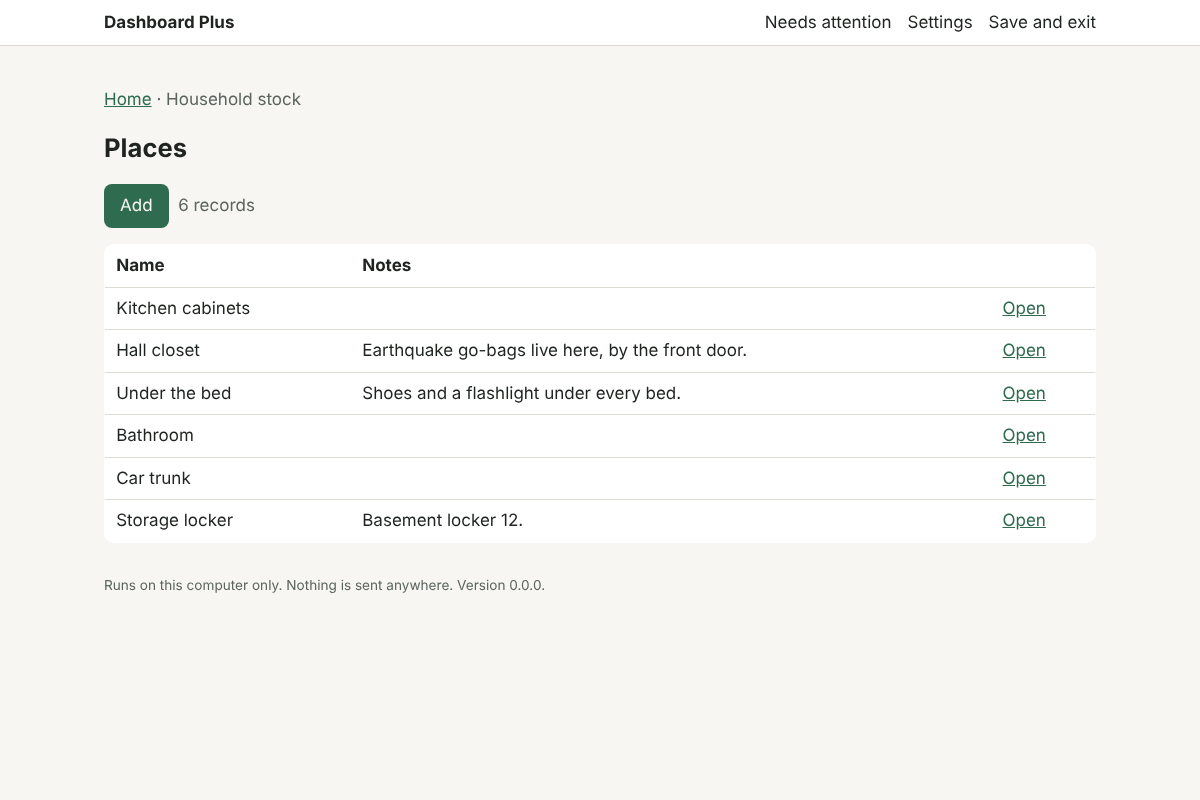
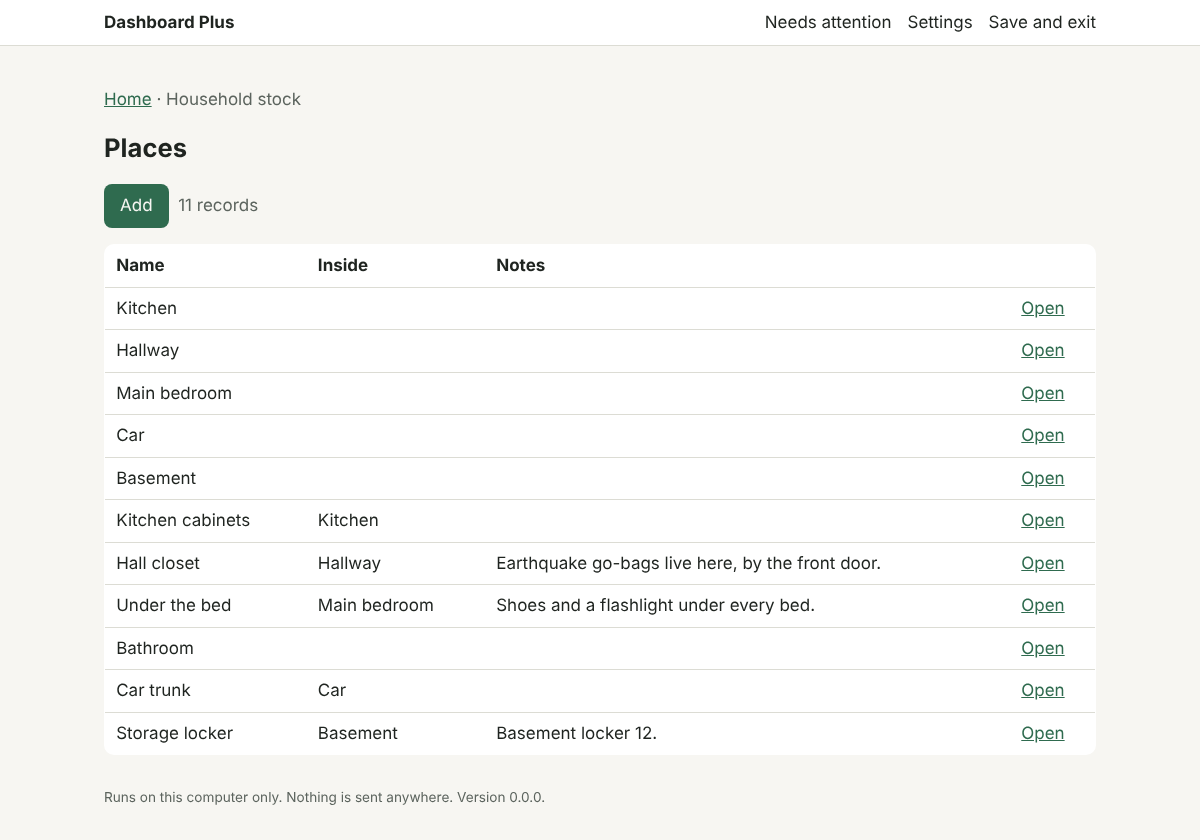
Nested places: Kitchen › Pantry › Shelf 3
Corey's stocktake request, built from Lane B's Home layout design:
- A place can be "Inside" another place; every list, drop-down, record
  page and printed sheet shows the full path, sorted by path, and the
  find box matches any part of it.
- Moving a cupboard moves its shelves; saving refuses a place inside
  itself or deeper than eight levels; a room with places inside can't be
  deleted.
- Core: `parent` in tables.toml (DESIGN 5.6, decision 0049); Household
  stock migration 0004. Example households gain rooms, and the Smiths'
  kidney beans sit on Shelf 3. Screenshots remade.

Claude-Session: https://claude.ai/code/session_01NY4YczT1cyZFgfHagCWCs7

diff --git a/tests/test_module_stock.py b/tests/test_module_stock.py
@@ -146,6 +146,46 @@ class StockModuleTests(TempDirTestCase):
         client.get("/?key=k", base_url=BASE)
         return client
 
+    def test_places_nest_and_show_their_full_path(self):
+        kitchen = self.records.create("stock__places", {"name": "Kitchen"})
+        pantry = self.records.create("stock__places", {"name": "Pantry", "inside": kitchen})
+        shelf = self.records.create("stock__places", {"name": "Shelf 3", "inside": pantry})
+        self.item(name="Kidney beans", quantity=5, place=shelf)
+        client = self._client()
+        items = client.get("/t/stock__items", base_url=BASE).get_data(as_text=True)
+        self.assertIn("Kitchen › Pantry › Shelf 3", items)
+        form = client.get("/t/stock__items/new", base_url=BASE).get_data(as_text=True)
+        self.assertLess(form.index(">Kitchen<"), form.index(">Kitchen › Pantry<"))
+        self.assertIn(">Kitchen › Pantry › Shelf 3<", form)
+        page = client.get(f"/t/stock__places/{shelf}", base_url=BASE).get_data(as_text=True)
+        self.assertIn("<h1>Kitchen › Pantry › Shelf 3", page)
+        sheet = client.get("/sheet/stock/supplies", base_url=BASE).get_data(as_text=True)
+        self.assertIn("Kitchen › Pantry › Shelf 3", sheet)
+
+    def test_a_place_cannot_go_inside_itself(self):
+        kitchen = self.records.create("stock__places", {"name": "Kitchen"})
+        pantry = self.records.create("stock__places", {"name": "Pantry", "inside": kitchen})
+        with self.assertRaises(records.ValidationError) as caught:
+            self.records.update("stock__places", kitchen, {"inside": pantry})
+        self.assertIn("inside", caught.exception.problems)
+        with self.assertRaises(records.ValidationError):
+            self.records.update("stock__places", kitchen, {"inside": kitchen})
+
+    def test_moving_a_cupboard_moves_everything_in_it(self):
+        kitchen = self.records.create("stock__places", {"name": "Kitchen"})
+        garage = self.records.create("stock__places", {"name": "Garage"})
+        cupboard = self.records.create("stock__places", {"name": "Tall cupboard", "inside": kitchen})
+        self.records.create("stock__places", {"name": "Top shelf", "inside": cupboard})
+        self.records.update("stock__places", cupboard, {"inside": garage})
+        form = self._client().get("/t/stock__items/new", base_url=BASE).get_data(as_text=True)
+        self.assertIn(">Garage › Tall cupboard › Top shelf<", form)
+
+    def test_a_room_with_places_inside_cannot_be_deleted(self):
+        kitchen = self.records.create("stock__places", {"name": "Kitchen"})
+        self.records.create("stock__places", {"name": "Pantry", "inside": kitchen})
+        with self.assertRaises(records.ValidationError):
+            self.records.delete("stock__places", kitchen)
+
     def test_migration_matches_its_description(self):
         from dashboard.core.schema import next_migration_sql
         self.assertIsNone(next_migration_sql(modules.load_module(ROOT / "modules" / "stock")))

diff --git a/src/dashboard/core/records.py b/src/dashboard/core/records.py
@@ -297,6 +297,31 @@ class Records:
                           list(assignments.values()) + [target_id])
         self._audit(actor, "update", target, target_id, {rule["quantity"]: before}, {rule["quantity"]: after})
 
+    MAX_DEPTH = 8  # how deep nested records (Kitchen › Pantry › Shelf 3 › Box) may go
+
+    def ancestors(self, info: TableInfo, record_id: int | None) -> list[dict]:
+        """The chain of records `record_id` sits inside, outermost first (for a table with `parent`)."""
+        chain, seen = [], set()
+        while record_id is not None and record_id not in seen and len(chain) <= self.MAX_DEPTH + 1:
+            seen.add(record_id)
+            row = self.conn.execute(f"SELECT * FROM {info.name} WHERE id = ?", (record_id,)).fetchone()
+            if row is None:
+                break
+            chain.append(dict(row))
+            record_id = row[info.table.parent]
+        return list(reversed(chain))
+
+    def _check_nesting(self, info: TableInfo, record_id: int | None, cleaned: dict) -> None:
+        """Refuse putting a record inside itself, or nesting deeper than MAX_DEPTH."""
+        parent = info.table.parent
+        if not parent or cleaned.get(parent) in (None, ""):
+            return
+        chain = self.ancestors(info, int(cleaned[parent]))
+        if record_id is not None and any(row["id"] == record_id for row in chain):
+            raise ValidationError({parent: "can't be this place itself, or a place inside it."})
+        if len(chain) >= self.MAX_DEPTH:
+            raise ValidationError({parent: f"is too deep; places can go {self.MAX_DEPTH} levels deep."})
+
     def create(self, name: str, values: dict, actor: str = "person", review_status: str = "confirmed",
                batch_id: int | None = None) -> int:
         """Save a new record and return its id."""
@@ -304,6 +329,7 @@ class Records:
         info = self.info(name)
         with db.transaction(self.conn):
             cleaned = self.clean(info, values, creating=True)
+            self._check_nesting(info, None, cleaned)
             stored = {k: v for k, v in cleaned.items() if info.table.columns[k].type != "links"}
             now = self.clock()
             fields = ["created_at", "updated_at", "source", "review_status", "batch_id"] + list(stored)
@@ -323,6 +349,7 @@ class Records:
         with db.transaction(self.conn):
             current = self._row(info, record_id)
             cleaned = self.clean(info, values, creating=False)
+            self._check_nesting(info, record_id, cleaned)
             changed = {k: v for k, v in cleaned.items() if current.get(k) != v}
             if not changed:
                 return {}

diff --git a/src/dashboard/web/display.py b/src/dashboard/web/display.py
@@ -69,6 +69,20 @@ def name_column(info: TableInfo) -> Column | None:
     return (required or texts or [None])[0]
 
 
+PATH_SEPARATOR = " › "
+
+
+def path_name(info: TableInfo, rows_by_id: dict, row: dict) -> str:
+    """"Kitchen › Pantry › Shelf 3" for a nested record, from rows already loaded by id."""
+    names, seen = [], set()
+    while row is not None and row["id"] not in seen and len(names) < 12:
+        seen.add(row["id"])
+        names.append(display_name(info, row))
+        parent = row.get(info.table.parent)
+        row = rows_by_id.get(int(parent)) if parent not in (None, "") else None
+    return PATH_SEPARATOR.join(reversed(names))
+
+
 def display_name(info: TableInfo, row: dict) -> str:
     """A short human name for a record, used wherever another record links to it."""
     column = name_column(info)
@@ -101,7 +115,11 @@ class Formatter:
         if key not in self._names:
             try:
                 row = self.records.get(target.name, int(record_id), include_deleted=True)
-                name = display_name(target, row)
+                if target.table.parent:
+                    chain = self.records.ancestors(target, int(record_id))
+                    name = path_name(target, {r["id"]: r for r in chain}, chain[-1]) if chain else display_name(target, row)
+                else:
+                    name = display_name(target, row)
                 self._names[key] = name + (" (deleted)" if row.get("deleted_at") else "")
             except Exception:  # noqa: BLE001 - a missing link should never break a page
                 self._names[key] = "(missing)"
@@ -180,7 +198,12 @@ def build_fields(records: Records, info: TableInfo, values: dict, errors: dict, 
             target = formatter.target(info, column)
             name_col = name_column(target)
             rows = records.page(target.name, limit=OPTION_LIMIT, order_by=name_col.name if name_col else "id")
-            options = [(str(r["id"]), display_name(target, r)) for r in rows]
+            if target.table.parent:
+                by_id = {r["id"]: dict(r) for r in rows}
+                options = sorted(((str(r["id"]), path_name(target, by_id, dict(r))) for r in rows),
+                                 key=lambda option: option[1].lower())
+            else:
+                options = [(str(r["id"]), display_name(target, r)) for r in rows]
         raw = values.get(column.name)
         value = raw if from_form else input_value(column, raw)
         if column.type == "link" and value not in (None, ""):

diff --git a/src/dashboard/core/modules.py b/src/dashboard/core/modules.py
@@ -27,7 +27,7 @@ SYSTEM_COLUMNS = ("id", "created_at", "updated_at", "review_status", "source", "
 
 MODULE_KEYS = ("name", "title", "version", "description", "core_api", "kind", "requires", "outbound_hosts")
 MODULE_REQUIRED = ("name", "title", "version", "description", "core_api", "kind")
-TABLE_KEYS = ("title", "description", "columns", "watch", "adjusts")
+TABLE_KEYS = ("title", "description", "columns", "watch", "adjusts", "parent")
 ADJUST_KEYS = ("link", "quantity", "amount", "direction", "adds")
 WATCH_KEYS = ("running_low", "expiring", "supply", "gaps")
 GAP_KEYS = ("missing", "none", "where", "message")
@@ -75,6 +75,7 @@ class Table:
     columns: dict[str, Column]
     watch: dict = field(default_factory=dict)  # checked `watch` section (DESIGN.md 5.1)
     adjusts: dict = field(default_factory=dict)  # checked `adjusts` section (DESIGN.md 5.3)
+    parent: str | None = None  # a link to this same table that nests records (DESIGN.md 5.6)
 
 
 @dataclass
@@ -401,6 +402,15 @@ def _check_tables(module: str, data: dict, requires: list[str], problems: list[s
         watch = _check_watch(file, tname, raw.get("watch", {}), columns, problems)
         tables[tname] = Table(tname, str(raw.get("title", tname)), raw.get("description"), columns, watch,
                               raw.get("adjusts", {}))
+    for tname, raw in raw_tables.items():
+        parent = raw.get("parent") if isinstance(raw, dict) else None
+        if parent is not None and tname in tables:
+            column = tables[tname].columns.get(parent)
+            if column is None or column.type != "link" or column.to != tname:
+                problems.append(f"In {file}, table '{tname}': 'parent' must name a link column of this table that "
+                                f"points at '{tname}' itself, like parent = \"inside\".")
+            else:
+                tables[tname].parent = parent
     for table in tables.values():
         if table.adjusts:
             table.adjusts = _check_adjusts(file, table, tables, problems)

diff --git a/src/dashboard/web/pages.py b/src/dashboard/web/pages.py
@@ -99,6 +99,9 @@ def _render_form(info, store, values, errors, from_form, record=None, status=200
             history.append({"at": entry["at"].replace("T", " ")[:16], "who": display.actor_text(entry["actor"]),
                             "action": display.ACTION_TEXT.get(entry["action"], entry["action"]), "changes": changes})
     record_name = display.display_name(info, record) if record else None
+    if record and info.table.parent:
+        chain = store.ancestors(info, record["id"])
+        record_name = display.path_name(info, {r["id"]: r for r in chain}, chain[-1]) if chain else record_name
     related = []
     if record and not record.get("deleted_at"):
         for other, column in store._dependents(info):

diff --git a/docs/decisions/0049-nested-places.md b/docs/decisions/0049-nested-places.md
@@ -1,0 +1,57 @@
+# 0049. Places can sit inside other places, and show their full path
+
+- **Status:** Accepted
+- **Date:** 2026-11-17
+- **Decided by:** Claude (technical decision delegated by Corey), from Corey's stocktake request and Lane B's Home layout draft
+
+## In plain words
+A place can now be inside another place: Shelf 3 inside the Pantry, inside the
+Kitchen. Wherever a place appears (the stock list, the drop-down when you add an
+item, a place's own page, the printed supplies sheet) it reads **Kitchen ›
+Pantry › Shelf 3**. Move the Pantry and everything on its shelves moves with it.
+You can stop at any level: "Garage" is fine on its own.
+
+## What we chose
+- One Places list where each place may name the place it is "Inside", as
+  Lane B recommended, instead of fixed room, storage and spot levels. A box on a
+  shelf in a cupboard in the garage needs a fourth level.
+- A general core feature declared in a module's files (`parent` in
+  tables.toml, DESIGN 5.6), so Home layout and other modules can nest records
+  too.
+- Saving refuses a place inside itself (or inside something it contains) and
+  more than eight levels.
+- A room with places still inside it can't be deleted; move or delete those
+  first.
+- Built into Household stock's existing Places for now (migration 0004).
+  Existing places stay as they are, as top-level places; nothing is split
+  or renamed automatically.
+
+## Why we chose it
+- Corey's stocktake: "kidney beans, location kitchen, sub location pantry, sub
+  location shelf 3". Several rooms have a "Top drawer"; only the full path
+  says which.
+- Putting it in the core means the path shows the same everywhere with no
+  module code.
+
+## What else we considered
+- Three fixed columns (room, storage, spot): simpler forms, but it breaks on
+  a fourth level and repeats the same place in every module.
+- Moving places into a new Home layout module first: the right long-term home
+  (with exits, shut-offs and safety equipment), but it means moving every
+  item's place link between modules. Doing nesting first gives Corey the
+  result now; the move to Home layout can follow with a backup and a way back.
+
+## What this costs us (the downsides)
+- Showing a path looks up each parent; fine for a household's few hundred
+  places, worth caching if that grows.
+- Nothing yet guides "room, then storage, then spot" when adding places.
+
+## How hard it is to undo
+Easy. Removing `parent` leaves places as a flat list; the "Inside" values stay
+stored.
+
+## We should revisit this if
+- Home layout is promoted: Places should move there, shared by Stock, Medical
+  and the "Our home" sheet.
+- Households want to add a whole path in one go ("Kitchen › Pantry › Shelf 3"
+  typed and created at once).

diff --git a/PROJECT_MAP.md b/PROJECT_MAP.md
@@ -100,6 +100,7 @@ marked Superseded. Each lists downsides, cost to undo, and the sign it was wrong
 | [0046](0046-show-the-water-basis-and-backup-status.md) | Show the water estimate's daily amount, and whether the second backup worked | Accepted |
 | [0047](0047-pets-moved-forward.md) | Pets is switched on now, built from the second agent's draft | Accepted |
 | [0048](0048-pick-from-a-catalogue-while-typing.md) | Pick goods from a list while typing, with your own items first | Accepted |
+| [0049](0049-nested-places.md) | Places can sit inside other places, and show their full path | Accepted |
 | [0060](0060-garden-example-outside-installed-modules.md) | Keep the worked garden outside installed modules | Accepted |
 | [0061](0061-public-reporting-and-contribution-rules.md) | Public contribution and private security reporting routes | Accepted |
 | [TEMPLATE](TEMPLATE.md) | Blank record to copy for a new decision | recording a decision |
@@ -226,6 +227,7 @@ Generate the next one with: python tools/make_migration.py stock --name <what_ch
 |---|---|---|
 | 0001_first_tables.sql | The module's first tables, generated from tables.toml | checking how the tables are stored |
 | 0002_stock_in_and_out.sql | The Stock in and out table | checking how movements are stored |
+| 0004_places_inside_places.sql | Places can sit inside other places ("Inside") | checking how nested places are stored |
 | 0003_drinking_water.sql | "Safe to drink" on items; existing water stays counted | checking how drinking water is stored |
 
 ## src/  (summary: the program's Python code)

diff --git a/docs/BACKLOG.md b/docs/BACKLOG.md
@@ -17,6 +17,7 @@ sessions read this page first. Newest at the top of each section.
 
 | Date | Feedback | What changed | Pull request |
 |---|---|---|---|
+| 2026-11-16 | Location as Kitchen, sub location Pantry, sub location Shelf 3. | A place can be inside another; everywhere shows Kitchen › Pantry › Shelf 3; moving a cupboard moves its shelves; a place can't go inside itself (decision 0049). Use-by lots and dates shown your way are next. | Nested places |
 | 2026-11-16 | Pick "Kidney beans" from a list while typing, and type a new one only if missing. | Typing a stock item's name offers 800 common goods (and your own items first); picking fills in its kind, unit and whether it's drinking water. Stock in and out gets a find box and "add a new one". Places (Kitchen › Pantry › Shelf 3) and use-by lots are next. | Pick from a list while typing |
 | 2026-11-16 | (Lane B UX check) Water kept for flushing counted towards days of drinking water. | Water items have "Safe to drink" (shown only for water); only drinking water counts, and the home card says what wasn't counted. Existing water stays counted. | Drinking water only |
 | 2026-11-16 | "Pets is still lacking a lot": only People and Stock were switched on. | Pets is now a shipped module: setup asks each pet's name and kind; vet, microchip, vaccinations, treatments and medicine with due dates, weigh-ins, vet visits, a pet details sheet (decision 0047). | Pets module |

diff --git a/docs/DESIGN.md b/docs/DESIGN.md
@@ -293,6 +293,27 @@ columns.name = { suggest_from = "catalogue.csv", fills = { category = "category"
 - A field can be shown only when a choice has a particular value
   (`show_when = { category = "water" }` in labels.toml).
 
+### 5.6 Records inside records (nested places)
+
+A table can nest its records by naming a link to itself as `parent`:
+
+```toml
+[tables.places]
+parent = "inside"
+columns.inside = { type = "link", to = "places", on_delete = "restrict" }
+```
+
+- Everywhere a nested record is shown (lists, drop-downs, record pages,
+  printed sheets) it reads as its full path: **Kitchen › Pantry › Shelf 3**.
+  Drop-downs are sorted by path, so a room is followed by what is inside it,
+  and the find box matches any part of the path.
+- Moving a record moves everything inside it; paths update at once because
+  only the link is stored.
+- Saving refuses a record inside itself or inside something it contains, and
+  paths deeper than eight levels.
+- With `on_delete = "restrict"`, a room cannot be deleted while places are
+  still inside it.
+
 ## 6. Modules
 
 A module is a folder:

diff --git a/docs/decisions/INDEX.md b/docs/decisions/INDEX.md
@@ -52,6 +52,7 @@ marked Superseded. Each lists downsides, cost to undo, and the sign it was wrong
 | [0046](0046-show-the-water-basis-and-backup-status.md) | Show the water estimate's daily amount, and whether the second backup worked | Accepted |
 | [0047](0047-pets-moved-forward.md) | Pets is switched on now, built from the second agent's draft | Accepted |
 | [0048](0048-pick-from-a-catalogue-while-typing.md) | Pick goods from a list while typing, with your own items first | Accepted |
+| [0049](0049-nested-places.md) | Places can sit inside other places, and show their full path | Accepted |
 | [0060](0060-garden-example-outside-installed-modules.md) | Keep the worked garden outside installed modules | Accepted |
 | [0061](0061-public-reporting-and-contribution-rules.md) | Public contribution and private security reporting routes | Accepted |
 | [TEMPLATE](TEMPLATE.md) | Blank record to copy for a new decision | recording a decision |

diff --git a/docs/WORKSTREAMS.md b/docs/WORKSTREAMS.md
@@ -116,7 +116,8 @@ Draft modules may link to these with `requires = ["people"]` and
 | Batch 2: M1 check, wording, Pets/Medical/Wine drafts, AU/US research, SWOT | B | merged |
 | Batch 3: catalogue, Home layout, lots, Medical, readiness, country packs, Documents, Home care, Wine, examples, UX check | B | merged (#22, #24 to #33) |
 | Drinking water only; pick from a list while typing (catalogue) | A | merged (#35, #36) |
-| Nested places, dates shown the household's way, lots | A | next, in that order |
+| Nested places | A | in review |
+| Dates shown the household's way, then lots | A | next |
 | Batch 4 (below), then the Lane B roadmap (batches 5 to 8) | B | ready to start |
 
 ## How the lanes work together: draft, polish, test

diff --git a/modules/stock/migrations/INDEX.md b/modules/stock/migrations/INDEX.md
@@ -5,4 +5,5 @@ Generate the next one with: python tools/make_migration.py stock --name <what_ch
 |---|---|---|
 | 0001_first_tables.sql | The module's first tables, generated from tables.toml | checking how the tables are stored |
 | 0002_stock_in_and_out.sql | The Stock in and out table | checking how movements are stored |
+| 0004_places_inside_places.sql | Places can sit inside other places ("Inside") | checking how nested places are stored |
 | 0003_drinking_water.sql | "Safe to drink" on items; existing water stays counted | checking how drinking water is stored |
